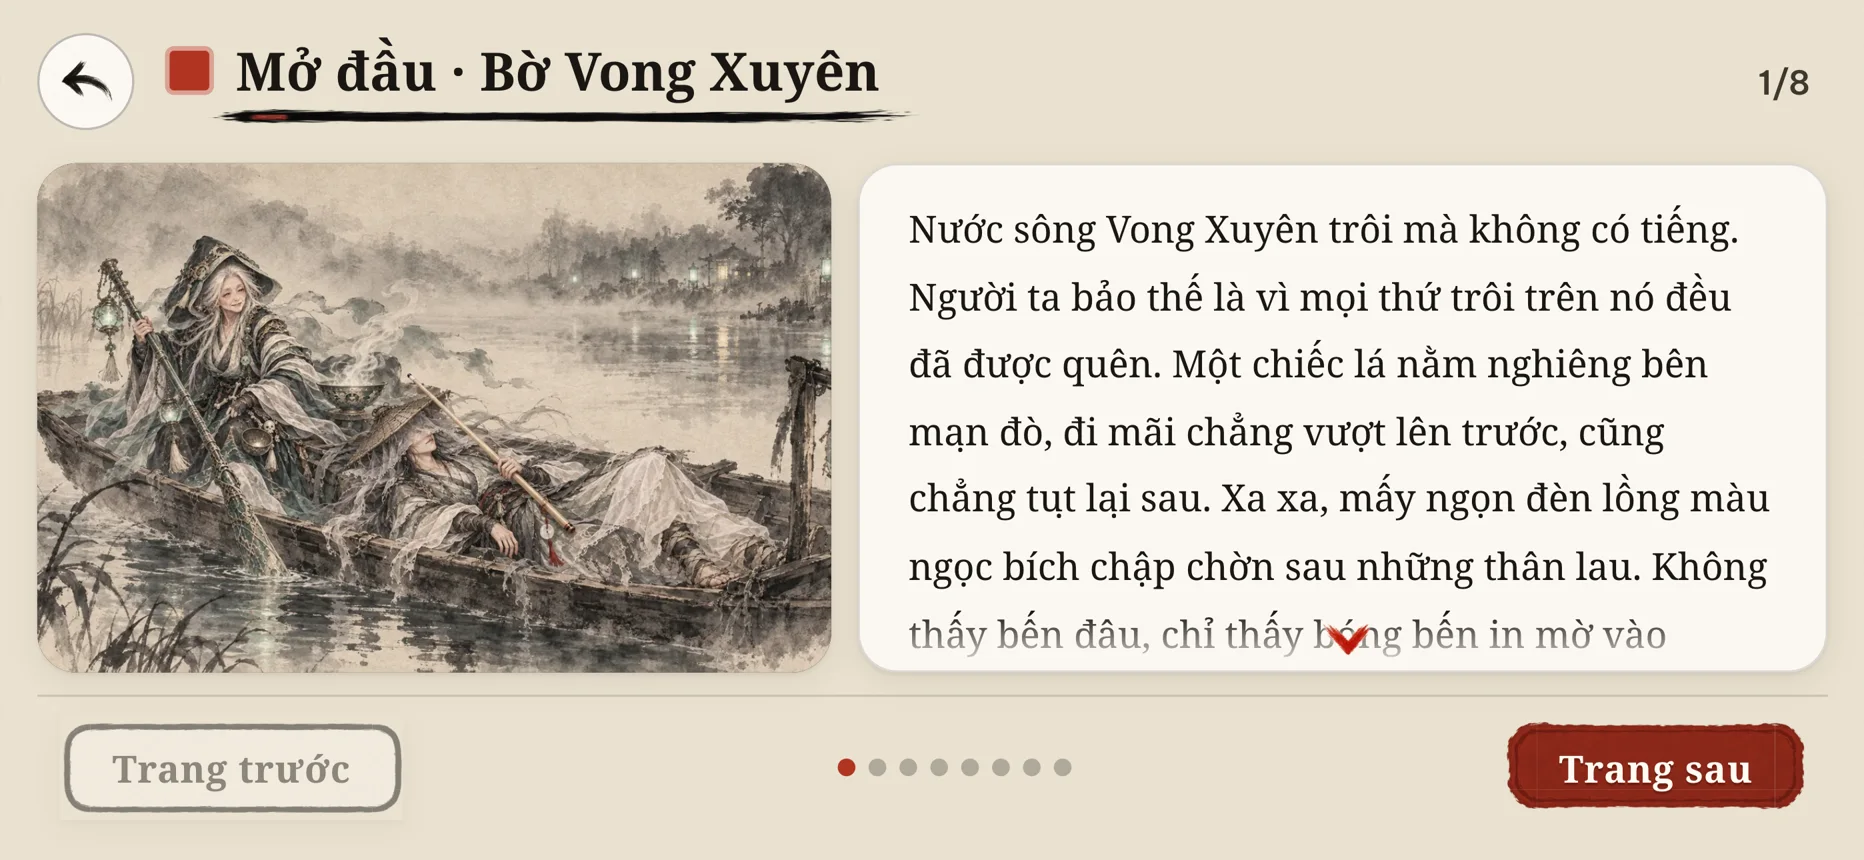
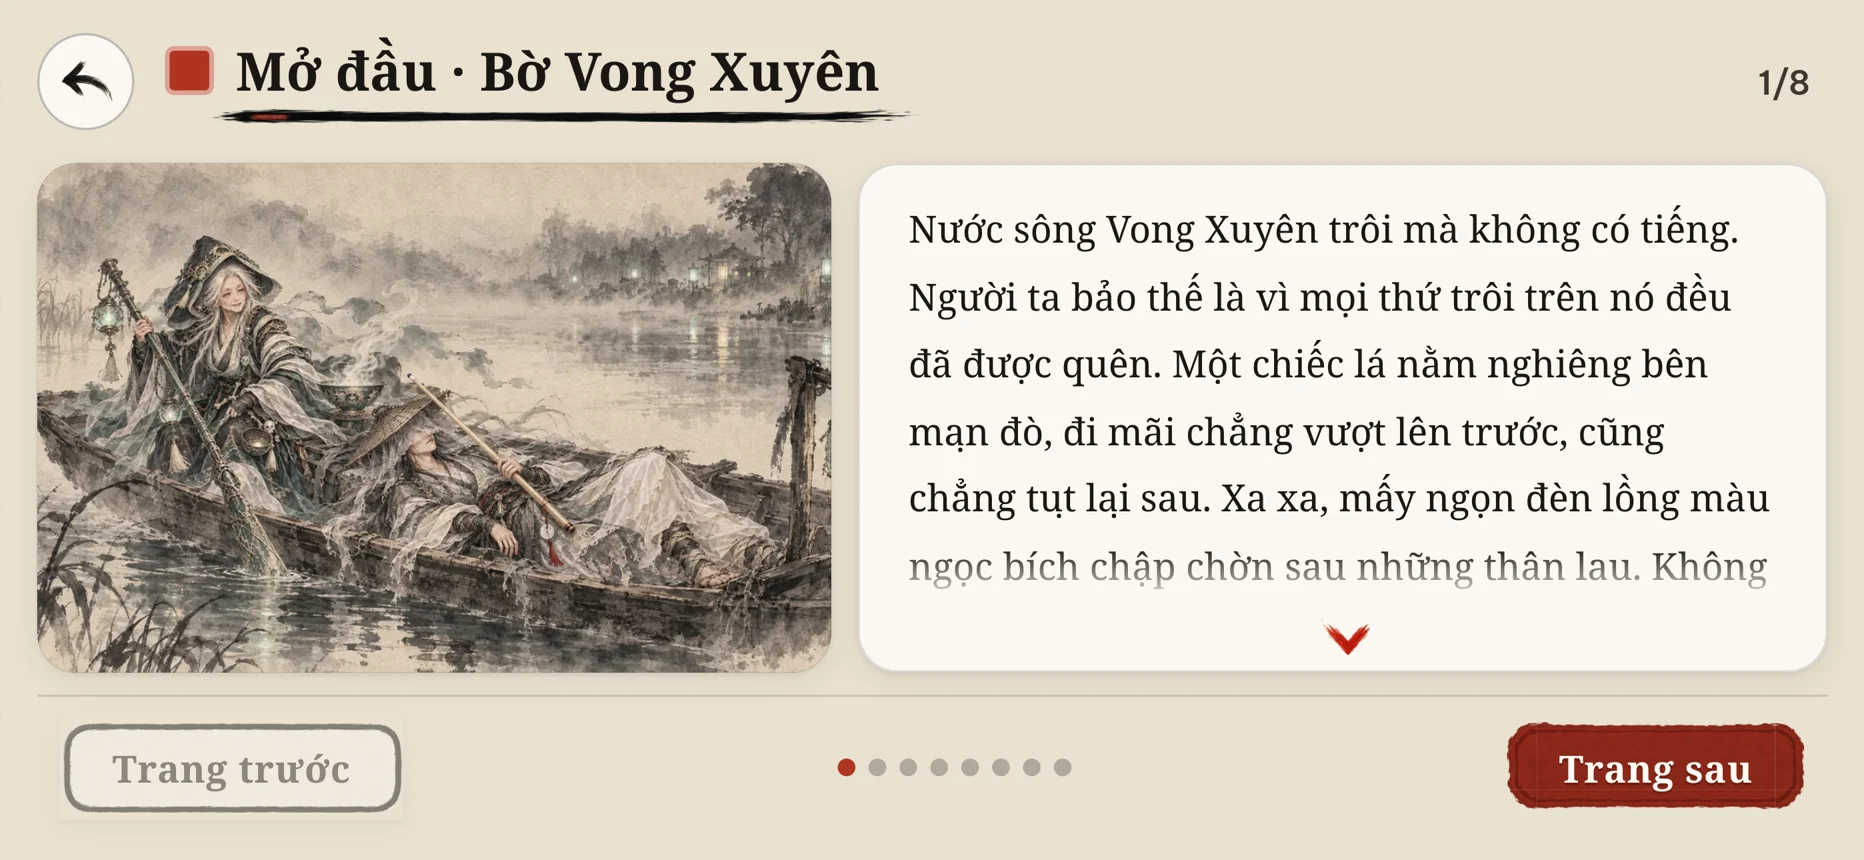
docs(ui): refresh reviewed gallery references

Changed region(s): [[0.4979, 0.6349, 0.9646, 0.6953], [0.4667, 0.7256, 0.9024, 0.7558]]

diff --git a/README.md b/README.md
@@ -34,7 +34,7 @@ dụng (PWA), chơi offline.
 
 ### Hình ảnh trong game
 
-Ảnh chụp bằng trình duyệt giả lập iPhone 14 Pro Max ngang: 932×430 CSS pixel, DPR 3; giao diện ưu tiên chơi ngang trên điện thoại.
+Ảnh chụp bằng Chromium giả lập cảm ứng ở 844×390 và 932×430 CSS pixel; giao diện ưu tiên chơi ngang trên điện thoại.
 
 | Trang chủ | Luận Cơ |
 | --- | --- |
@@ -80,3 +80,5 @@ thanh. Tài liệu: [kiến trúc](docs/architecture.md) · [thế giới](docs/
 Mã nguồn: MIT. Các agent skill bên thứ ba trong `.claude/skills` (trừ `game-art`) thuộc
 [gamedev-skills/awesome-gamedev-agent-skills](https://github.com/gamedev-skills/awesome-gamedev-agent-skills),
 giấy phép Apache-2.0 — xem `.claude/skills/README.md`.
+
+> Ảnh trong bảng trên được chụp lại từ bản UI hiện tại sau vòng review asset ngày 28/10/2026.
